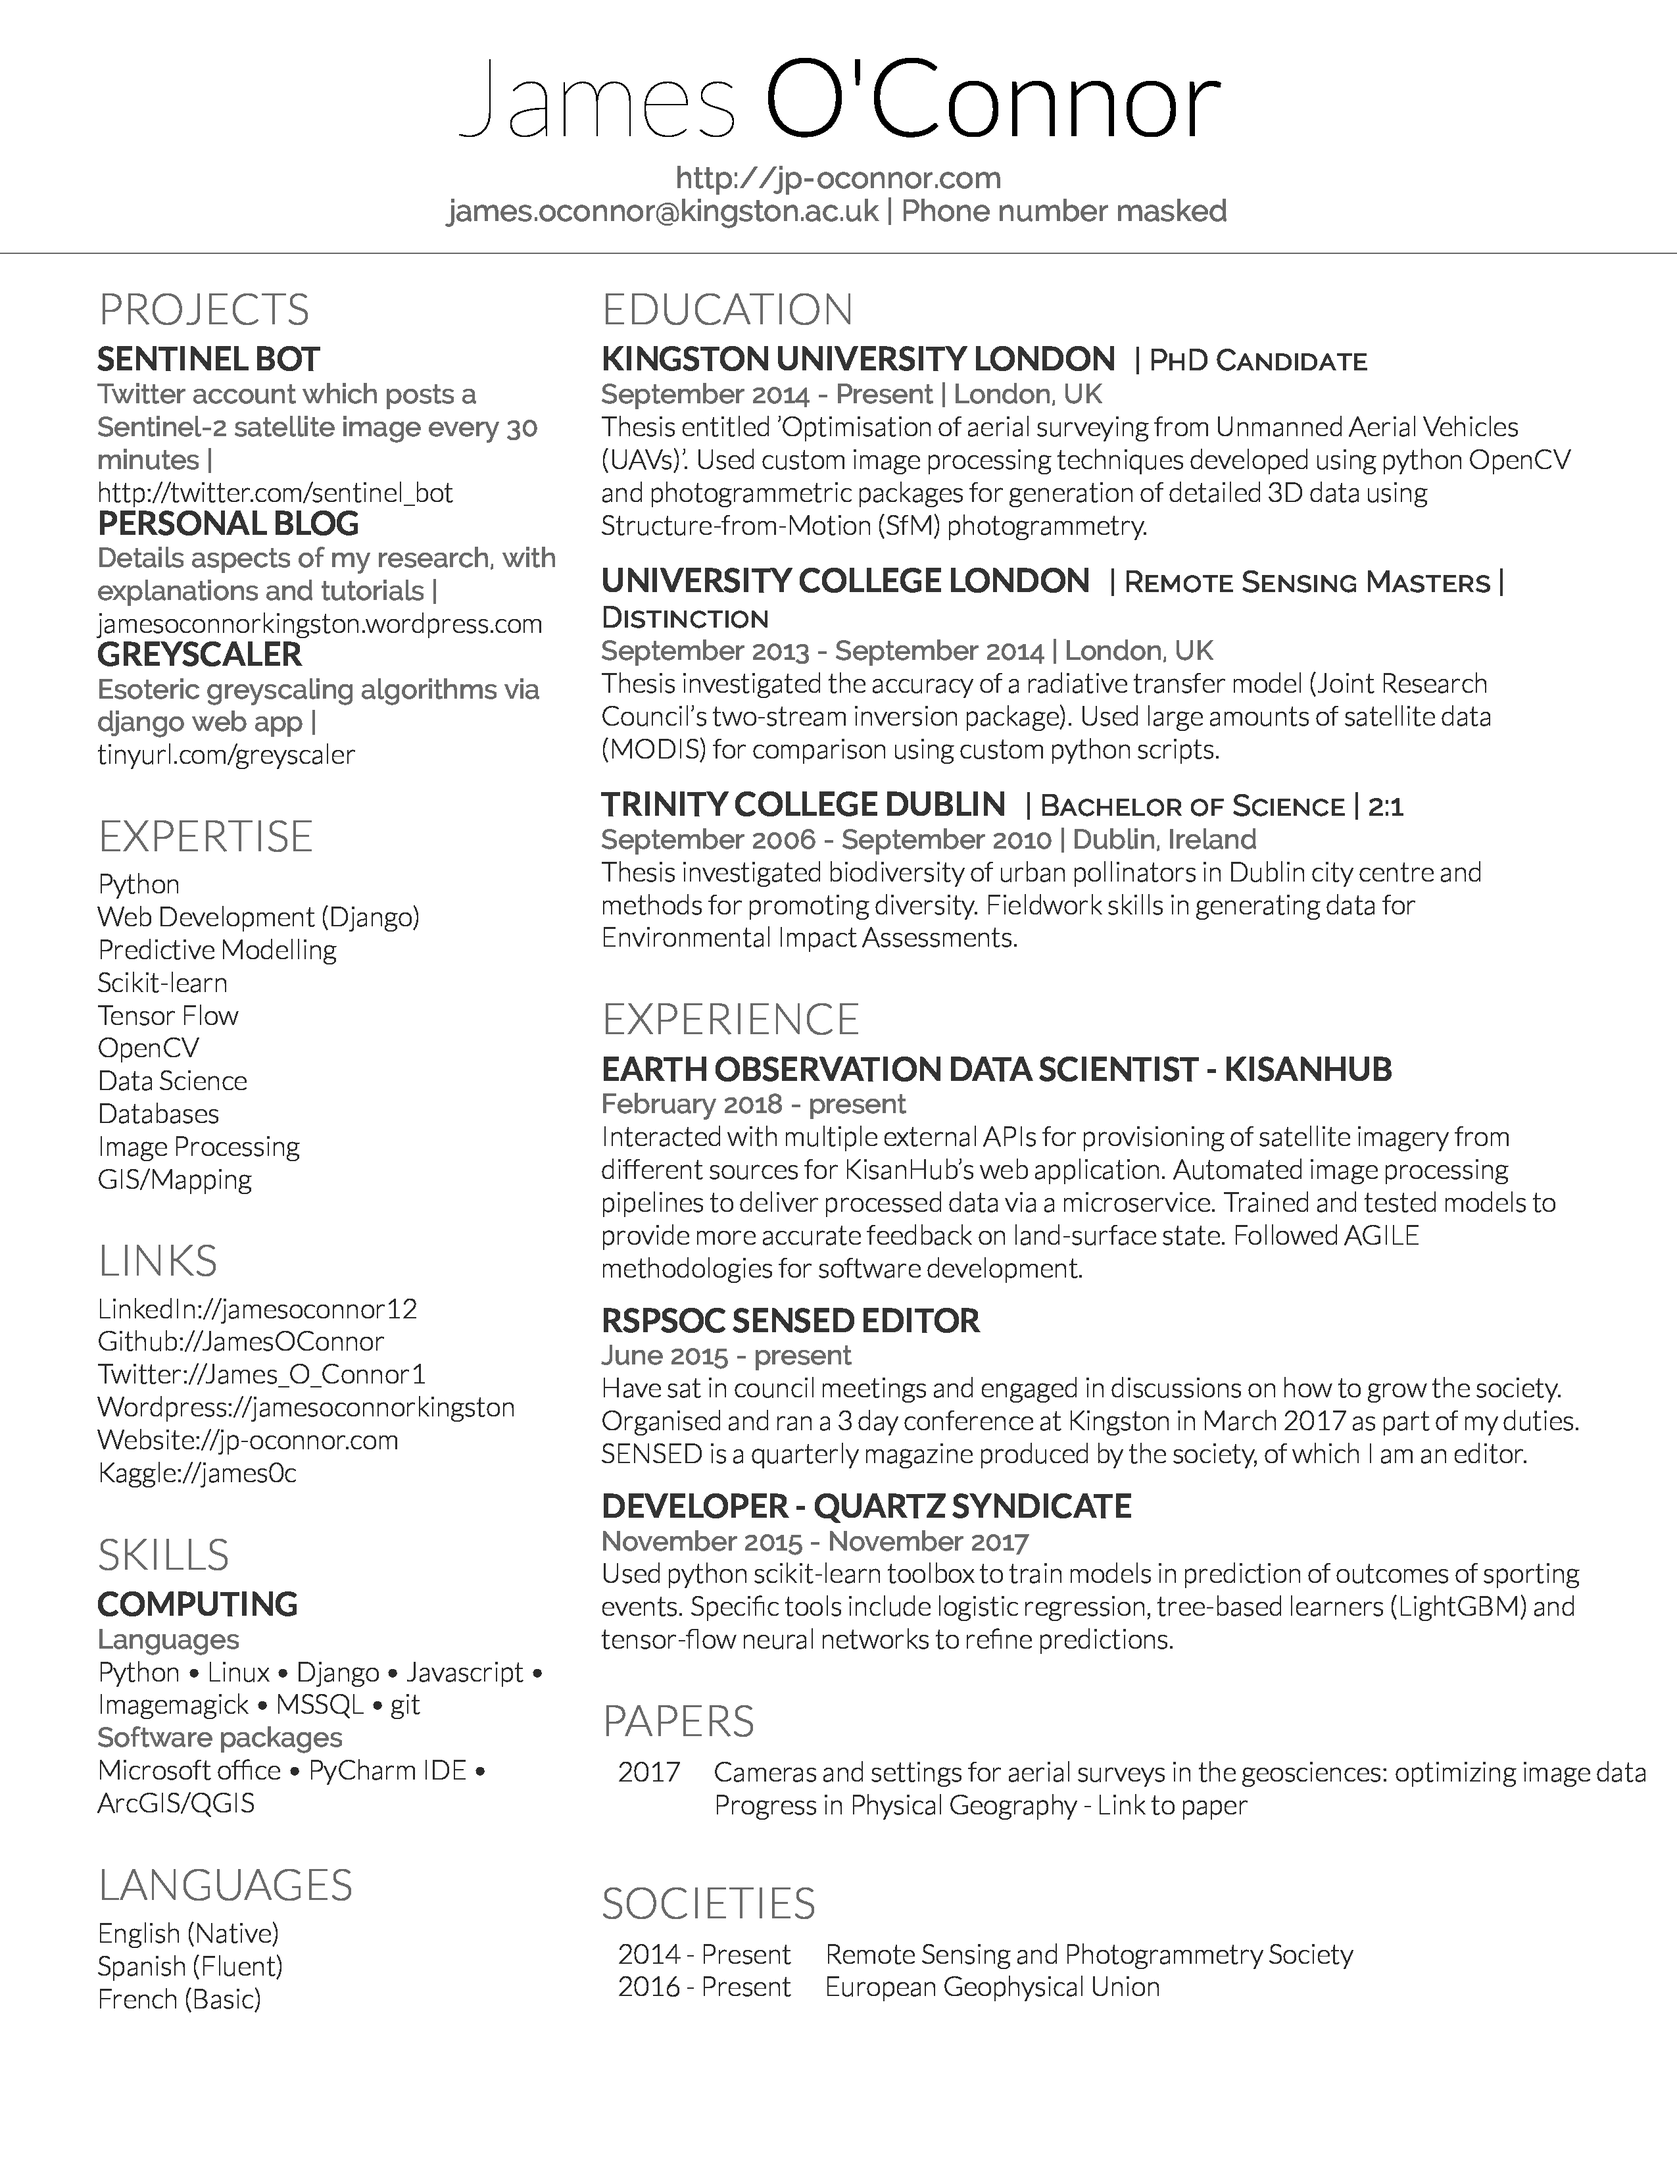
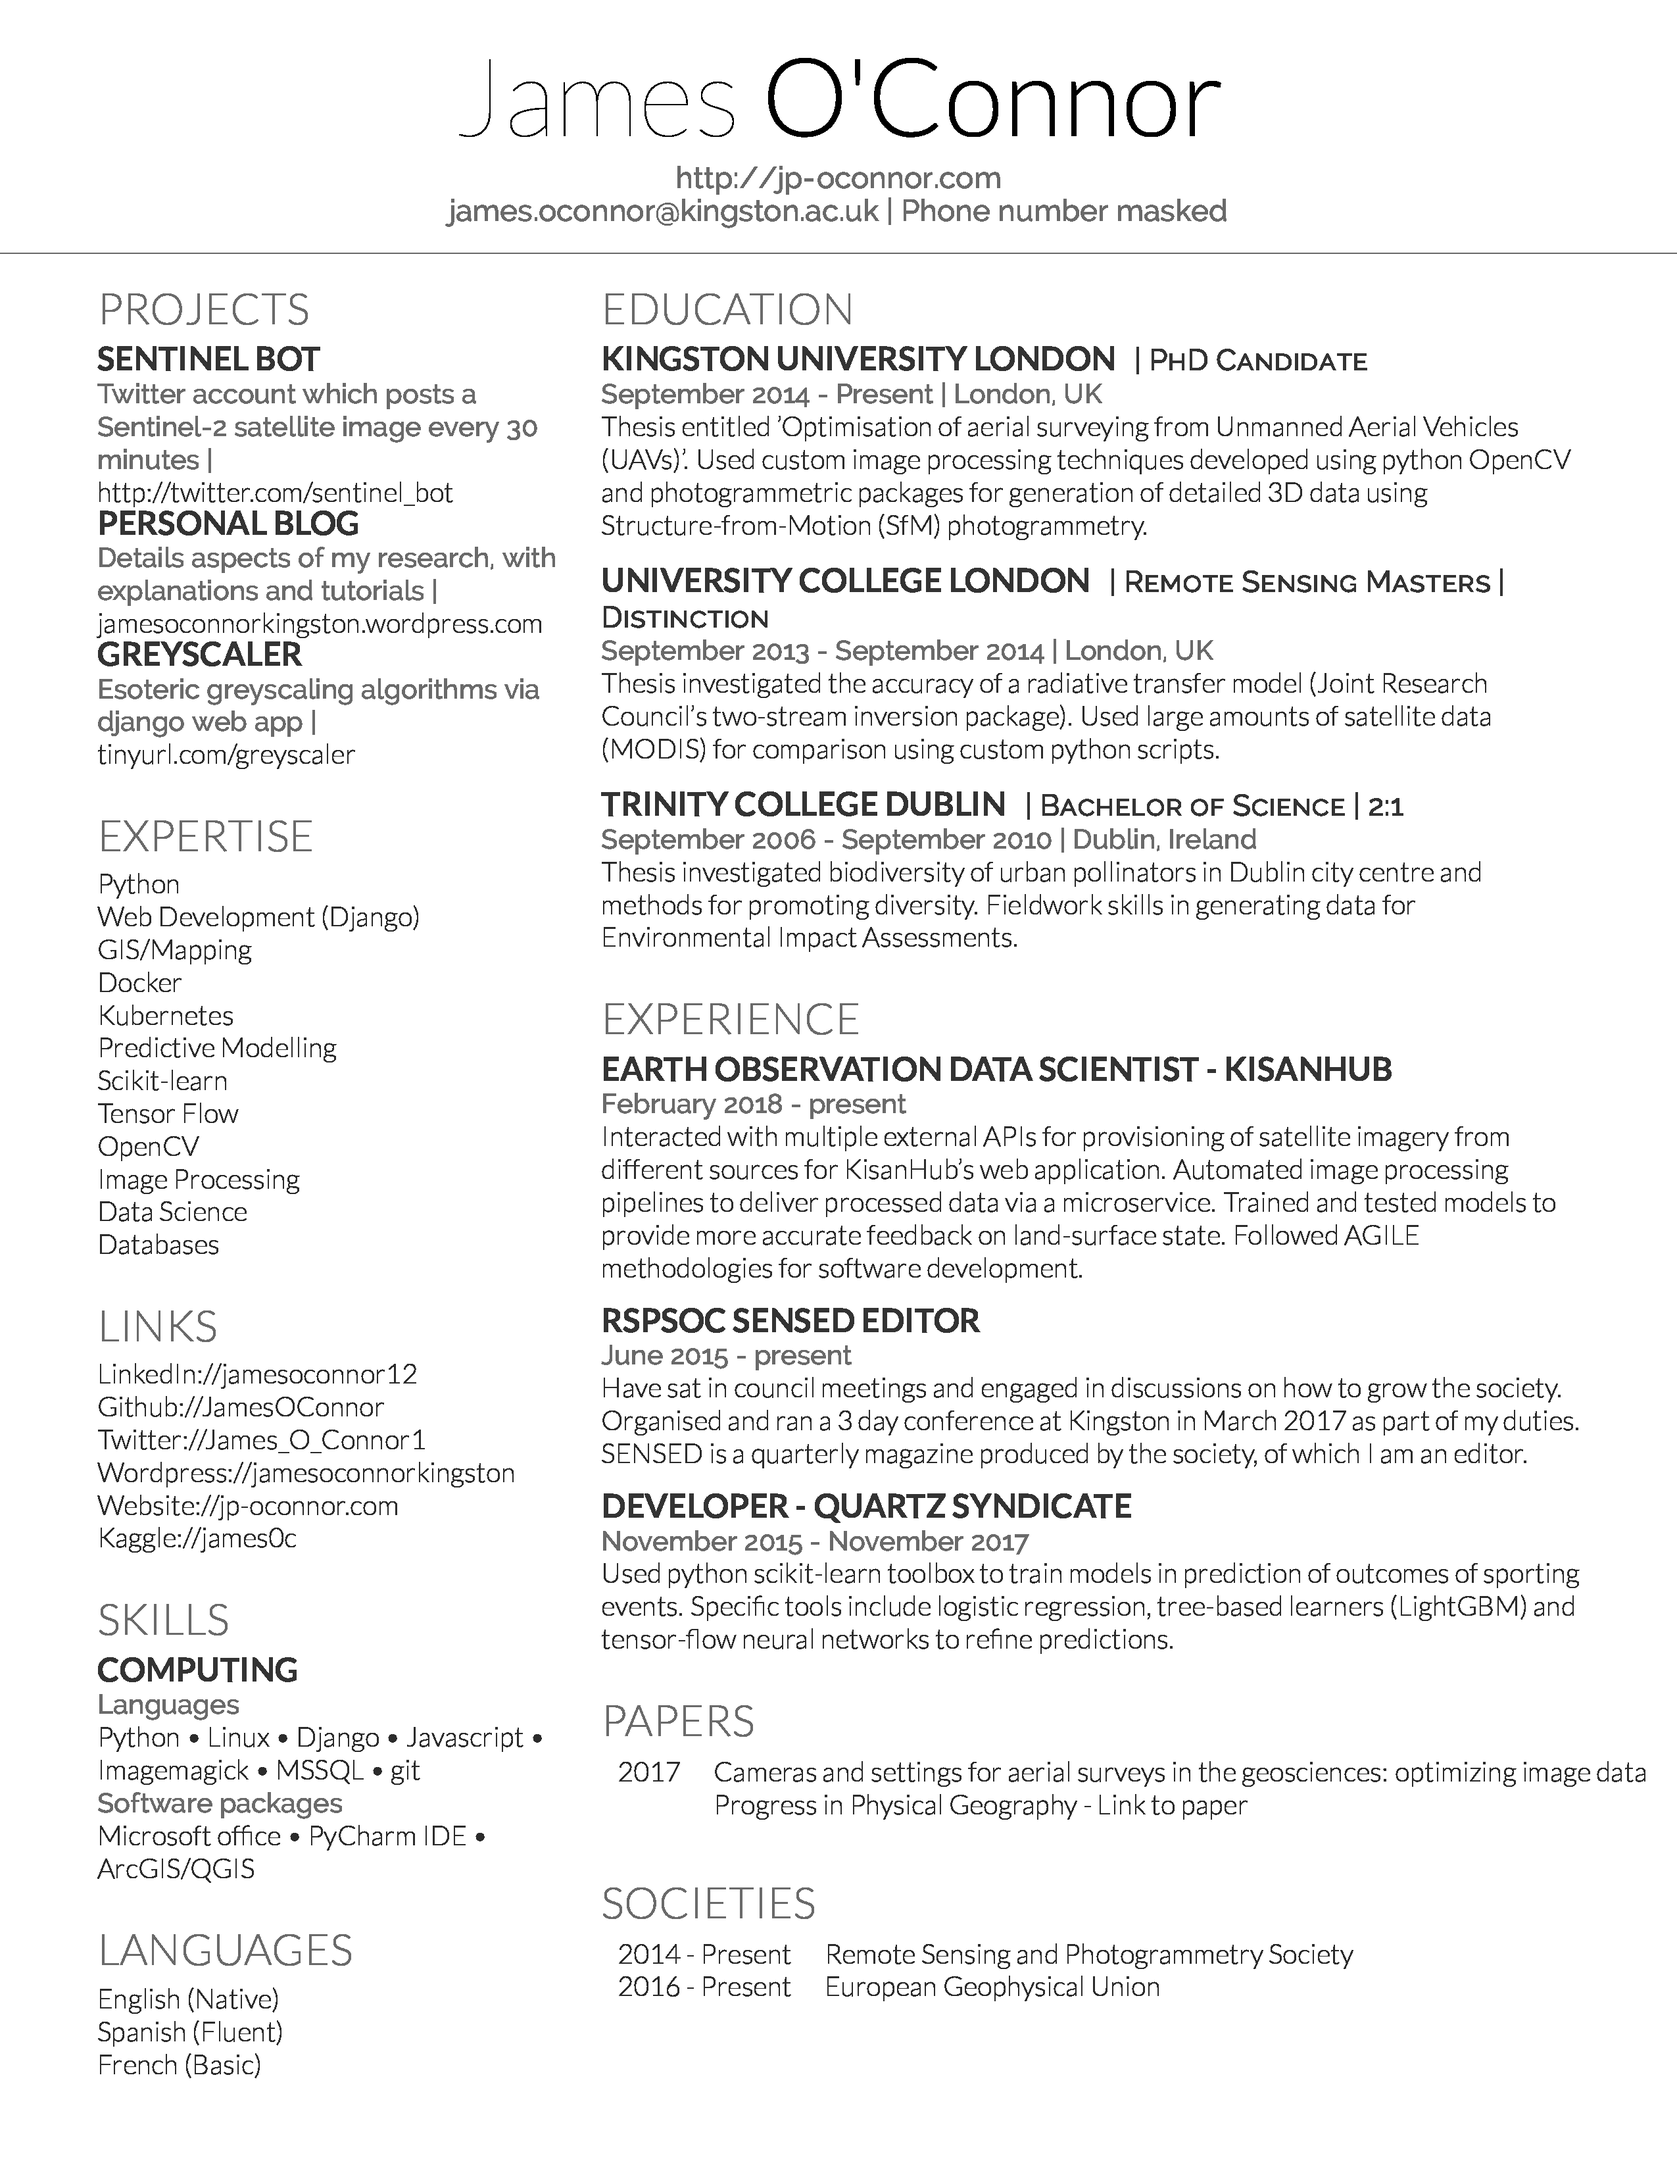
Updated expertise

Changed region(s): [[0.062, 0.437, 0.2478, 0.9364]]

diff --git a/src/JOC_CV.tex b/src/JOC_CV.tex
@@ -62,14 +62,16 @@
 \section{Expertise}\label{sec:expertise}
 Python \\
 Web Development (Django) \\
+GIS/Mapping \\
+Docker \\
+Kubernetes \\
 Predictive Modelling \\
 Scikit-learn \\
 Tensor Flow \\
 OpenCV \\
+Image Processing \\
 Data Science \\
 Databases \\
-Image Processing \\
-GIS/Mapping \\
 \sectionsep
 
 %%%%%%%%%%%%%%%%%%%%%%%%%%%%%%%%%%%%%%
